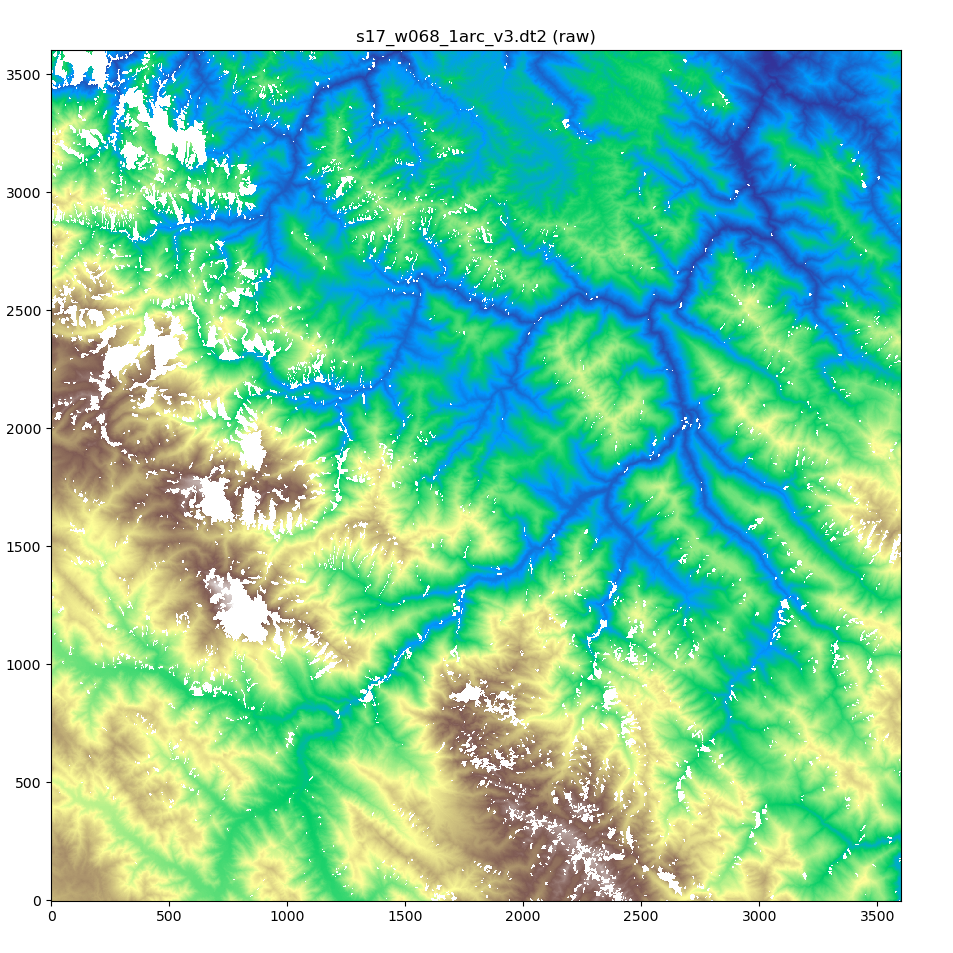
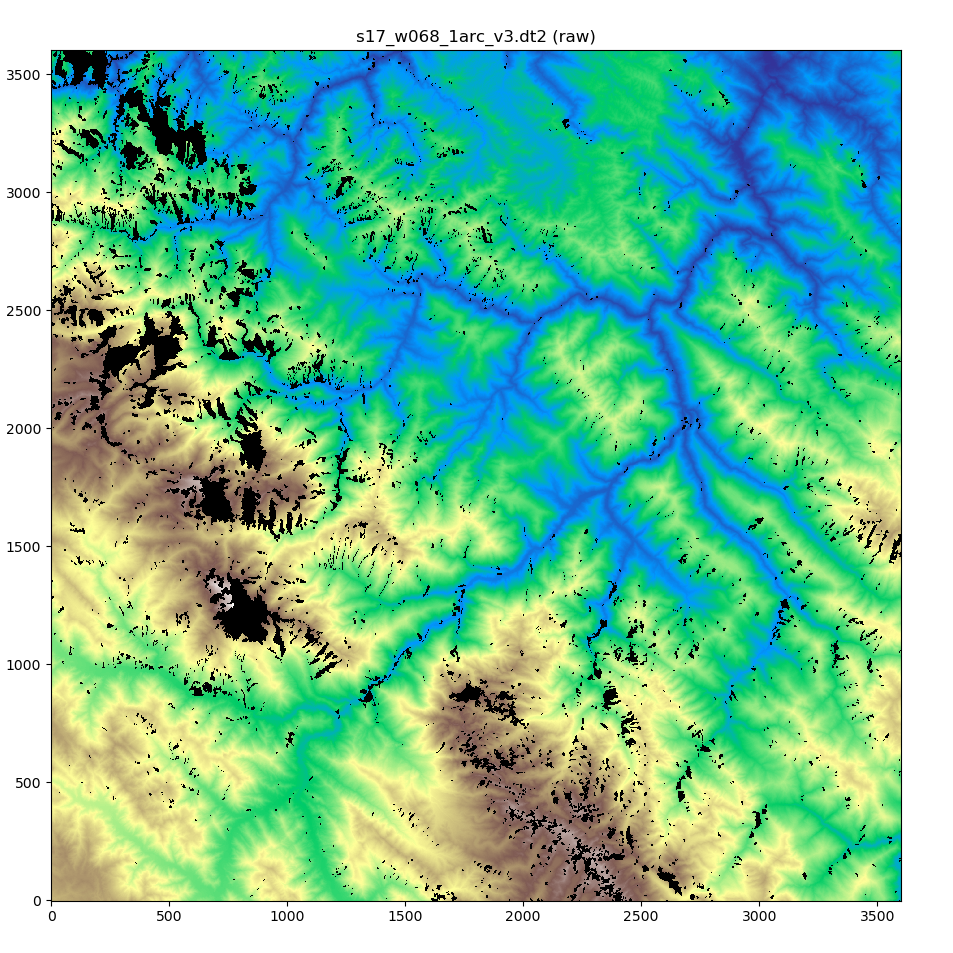
Added interpolation pictures

diff --git a/README.md b/README.md
@@ -14,7 +14,7 @@ but since then a finer 30-meter resolution (SRTM1) is available for the
 whole world ([JPL Release 2014-321]).
 
 <table>
-<tr><th rowspan=2>Accuracy<br><sup>(90% errors in meters)</sup></th><th colspan=6>Continent</th></tr>
+<tr><th rowspan=2>Accuracy<br><sup>(90% errors, in meters)</sup></th><th colspan=6>Continent</th></tr>
 <tr><td>Africa</td><td>Australia</td><td>Eurasia</td><td>Islands</td><td>N. America</td><td>S. America</td></tr>
 <tr><td>Horizontal</td>       <td>11.9</td><td>7.2</td><td>8.8</td><td>9.0</td><td>12.6</td><td>9.0</td></tr>
 <tr><td>Absolute Vertical</td><td> 5.6</td><td>6.0</td><td>6.2</td><td>8.0</td><td> 9.0</td><td>6.2</td></tr>
@@ -49,7 +49,8 @@ downloaded data must first be converted to internal Python representation
 
 Preprocessing of data also takes care of possible voids detected in data
 (*yes, some tiles may still contain voids!*) with the built-in interpolation
-(griddata/linear) and extrapolation (k-NN/12 neighbours).
+(griddata/linear <sup>[LNDI]</sup>) and extrapolation (k-NN/12 neighbours
+<sup>[CKDT]</sup>).
 
 Example of preprocessing a tile with voids:
 ```
@@ -87,6 +88,12 @@ the elevations between the supplied points from SRTM data files:
 1. [Bilinear interpolation] (smoother, default)
 2. [Inverse Distance Weighting (IDW) interpolation]
 
+<table><tr>
+<td><img src="images/Bilinear.png" width="300px"></td>
+<td width=80px></td>
+<td><img src="images/IDW.png" width="300px"></td>
+</tr></table>
+
 ### Transportability
 
 Additional tools for converting "pickles" to JSON format (and vice versa) are
@@ -108,3 +115,5 @@ coordinates in lower left corner with no void/NaN values.
 [SRTM Data Validation and Applications]: https://www.researchgate.net/profile/Vijith_H/post/What_is_the_vertical_resolutionaccuracy_of_Global_SRTM_1_arc_second_30_m2/attachment/59d6407179197b807799ca7e/AS%3A431123886022658%401479799352926/download/SRTM-program-final-version.pdf
 [Bilinear interpolation]: https://en.wikipedia.org/wiki/Bilinear_interpolation
 [Inverse Distance Weighting (IDW) interpolation]: https://en.wikipedia.org/wiki/Inverse_distance_weighting
+[LNDI]: https://docs.scipy.org/doc/scipy/reference/generated/scipy.interpolate.LinearNDInterpolator.html
+[CKDT]: https://docs.scipy.org/doc/scipy/reference/generated/scipy.spatial.cKDTree.html
